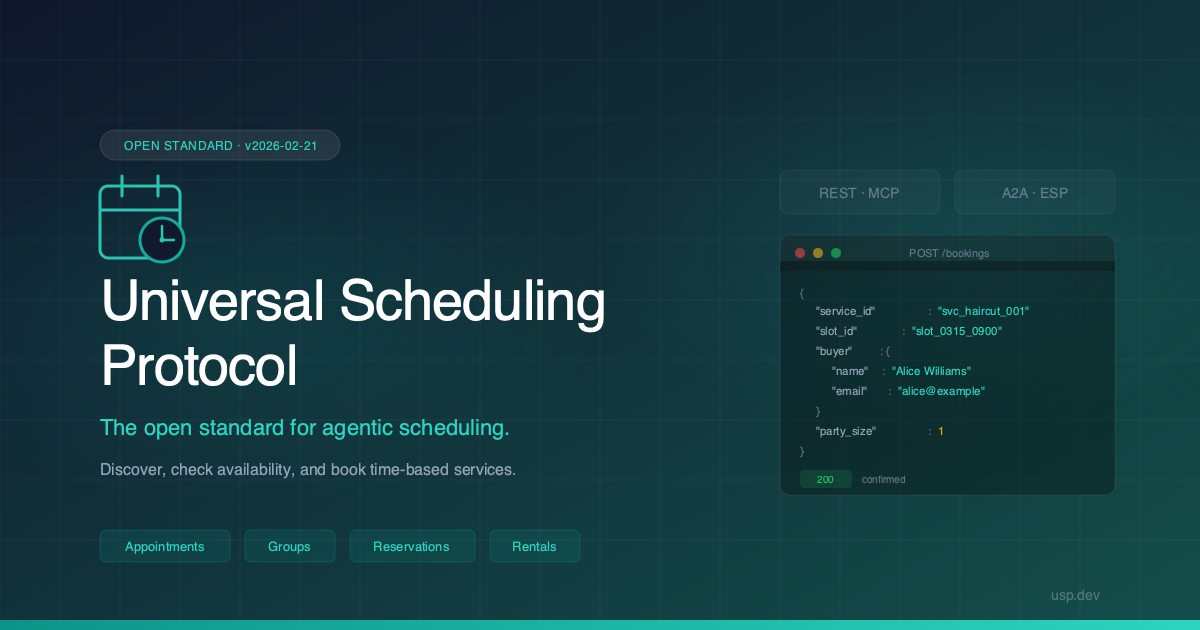
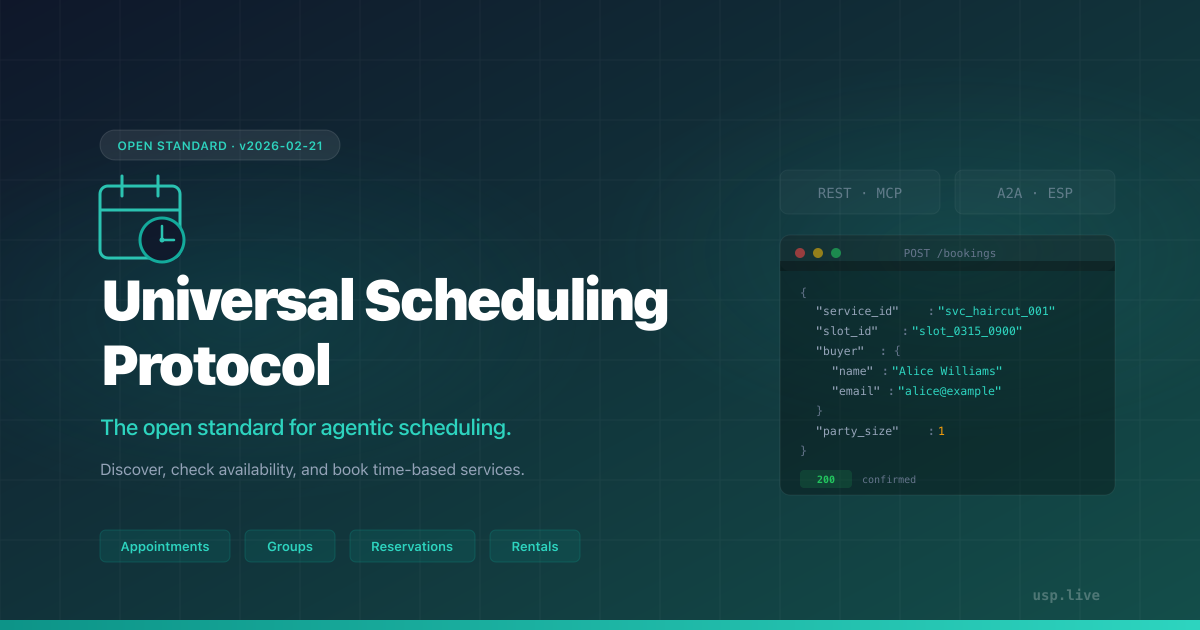
Took the still necessary changes from https://github.com/wix-private/universal-scheduling-protocol-spec/pull/152 before closing it.

diff --git a/site-docs/specification/discovery-registry.md b/site-docs/specification/discovery-registry.md
@@ -288,7 +288,7 @@ Search the registry for specific **services** offered by registered businesses. 
     ```
 
 !!! tip "Indexing Strategy"
-    Registries **SHOULD** index services from registered businesses by subscribing to catalog changes via [feed subscriptions](service-catalog.md#feed-subscriptions----post-servicesfeedsubscriptions) where the business supports them. For businesses without feed subscriptions, registries **SHOULD** re-index at most every 24 hours. Registry search results are **non-authoritative snapshots** -- platforms **MUST** fetch the business's live profile and [catalog](service-catalog.md) for booking-time decisions. When present on the indexed catalog service, registries **SHOULD** pass through `availability_hint` ([Availability Hint](service-catalog.md#availability-hint)) on each result; platforms **MUST NOT** treat it as authoritative or use it as a hard availability filter.
+    Registries **SHOULD** index services from registered businesses by subscribing to catalog changes via [feed subscriptions](service-catalog.md#feed-subscriptions-post-servicesfeedsubscriptions) where the business supports them. For businesses without feed subscriptions, registries **SHOULD** re-index at most every 24 hours. Registry search results are **non-authoritative snapshots** -- platforms **MUST** fetch the business's live profile and [catalog](service-catalog.md) for booking-time decisions. When present on the indexed catalog service, registries **SHOULD** pass through `availability_hint` ([Availability Hint](service-catalog.md#availability-hint)) on each result; platforms **MUST NOT** treat it as authoritative or use it as a hard availability filter.
 
 ---
 
@@ -300,7 +300,7 @@ Returns the full registration record for a previously registered business.
 |-----------|------|----------|-------------|
 | `id` | string | path | Registration identifier (`reg_*`). |
 
-The response body matches the `registration` object from [Business Registration](#business-registration----post-registrybusinesses), wrapped in the standard `usp` envelope. If no registration exists for `id`, the registry **MUST** return `404 Not Found` with Problem Details.
+The response body matches the `registration` object from [Business Registration](#business-registration-post-registrybusinesses), wrapped in the standard `usp` envelope. If no registration exists for `id`, the registry **MUST** return `404 Not Found` with Problem Details.
 
 ---
 

diff --git a/CHANGE_LOG.md b/CHANGE_LOG.md
@@ -1,5 +1,22 @@
 # Change Log
 
+## 03/08/26 at 20:41:07 by [Ran Yahalom](mailto:ranya@wix.com)
+
+- Updated website domain references from `usp.dev` to `usp.live` in `mkdocs.yml`, `llms.txt`, `llms-full.txt`, `robots.txt`, `humans.txt`, and social-card assets so canonical/SEO/LLM URLs match the live site deployment
+- Added missing `favicon` in `mkdocs.yml` so browser tabs show the USP logo instead of the default MkDocs icon
+- Fixed MkDocs-strict broken internal anchors that used four dashes (`----`) instead of the collapsed single-dash slugs in availability, booking, and discovery-registry docs
+- Left protocol namespace URLs (`https://usp.dev/schemas/...`, etc.) unchanged because those are spec identifiers, not website links
+- Skipped the PR #152 responsive CSS chunk because later mobile styles on this branch already cover that need
+
+---
+
+## 03/08/26 at 20:22:55 by [Ran Yahalom](mailto:ranya@wix.com)
+
+- Added an interactive Cursor Canvas for the USP open-issues status analysis so reviewers can scan headline KPIs, prioritize evidence-backed close candidates, compare backlog themes, and filter or sort the full supplied issue inventory
+- Confirmed the detailed inventory matches the supplied headline count and documented evidence limitations so the analysis remains transparent about its verification scope
+
+---
+
 ## 17/07/26 at 21:17:51 by [Ran Yahalom](mailto:ranya@wix.com)
 
 - Fixed Standalone carousel sub-tabs (Catalog / Availability / Booking) clipping paragraph and code snippet text on the left on mobile by constraining `.sub-tab-content` width, stacking `.sub-tab-pane` vertically with `align-items: stretch`, and removing rigid `min-width` on pane children so code blocks stay within the viewport

diff --git a/site-docs/specification/booking.md b/site-docs/specification/booking.md
@@ -100,7 +100,7 @@ When a `pending` or `requires_action` booking reaches its `expires_at` deadline:
 
 ### Create Booking -- `POST /bookings`
 
-Creates a new booking for a service at a specific time slot. Resource selection is encoded in the `slot_id` -- the platform selects resources by choosing the appropriate slot at [availability query](availability.md#query-availability----post-availabilityquery) time.
+Creates a new booking for a service at a specific time slot. Resource selection is encoded in the `slot_id` -- the platform selects resources by choosing the appropriate slot at [availability query](availability.md#query-availability-post-availabilityquery) time.
 
 **Request Fields:**
 
@@ -108,7 +108,7 @@ Creates a new booking for a service at a specific time slot. Resource selection 
 |-------|------|----------|-------------|
 | `service_id` | string | **Yes** | The service to book. |
 | `slot_id` | string | **Yes** | The selected time slot. |
-| `hold_id` | string | No | Hold ID from a prior [hold operation](availability.md#hold-slot----post-availabilityholds). |
+| `hold_id` | string | No | Hold ID from a prior [hold operation](availability.md#hold-slot-post-availabilityholds). |
 | `buyer` | object | **Yes** | Buyer contact information. |
 | `recipient` | object | No | The person receiving the service, when different from the buyer. |
 | `party_size` | integer | No | Number of participants. Default: 1. |

diff --git a/site-docs/specification/availability.md b/site-docs/specification/availability.md
@@ -334,4 +334,4 @@ graph TD
 ```
 
 !!! tip "When Holds Are Not Supported"
-    When holds are not supported, the flow skips directly from slot selection to [booking creation](booking.md#create-booking----post-bookings). The platform should handle the possibility of the slot being taken between query and booking.
+    When holds are not supported, the flow skips directly from slot selection to [booking creation](booking.md#create-booking-post-bookings). The platform should handle the possibility of the slot being taken between query and booking.
